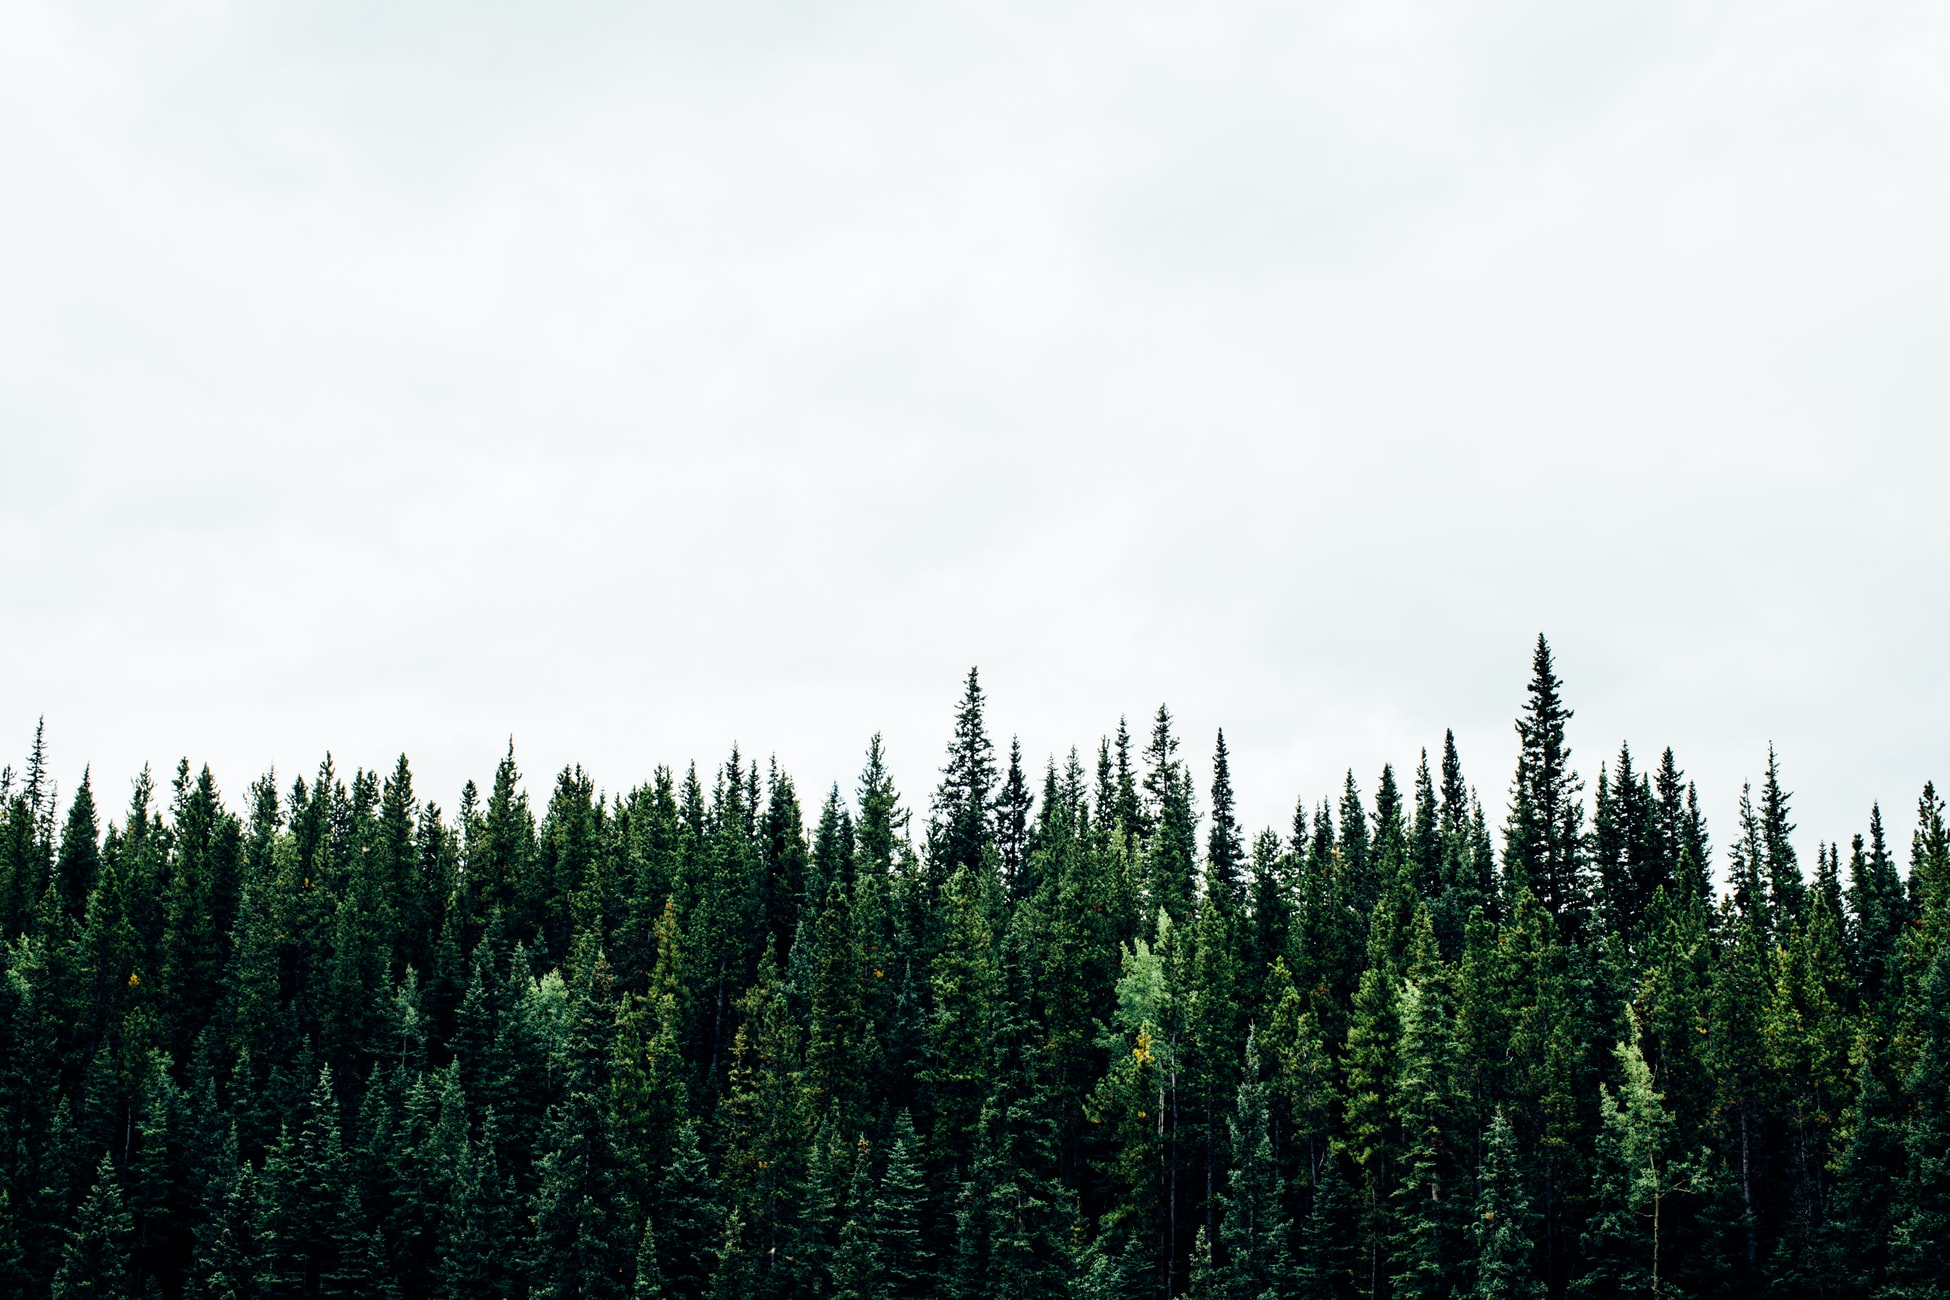
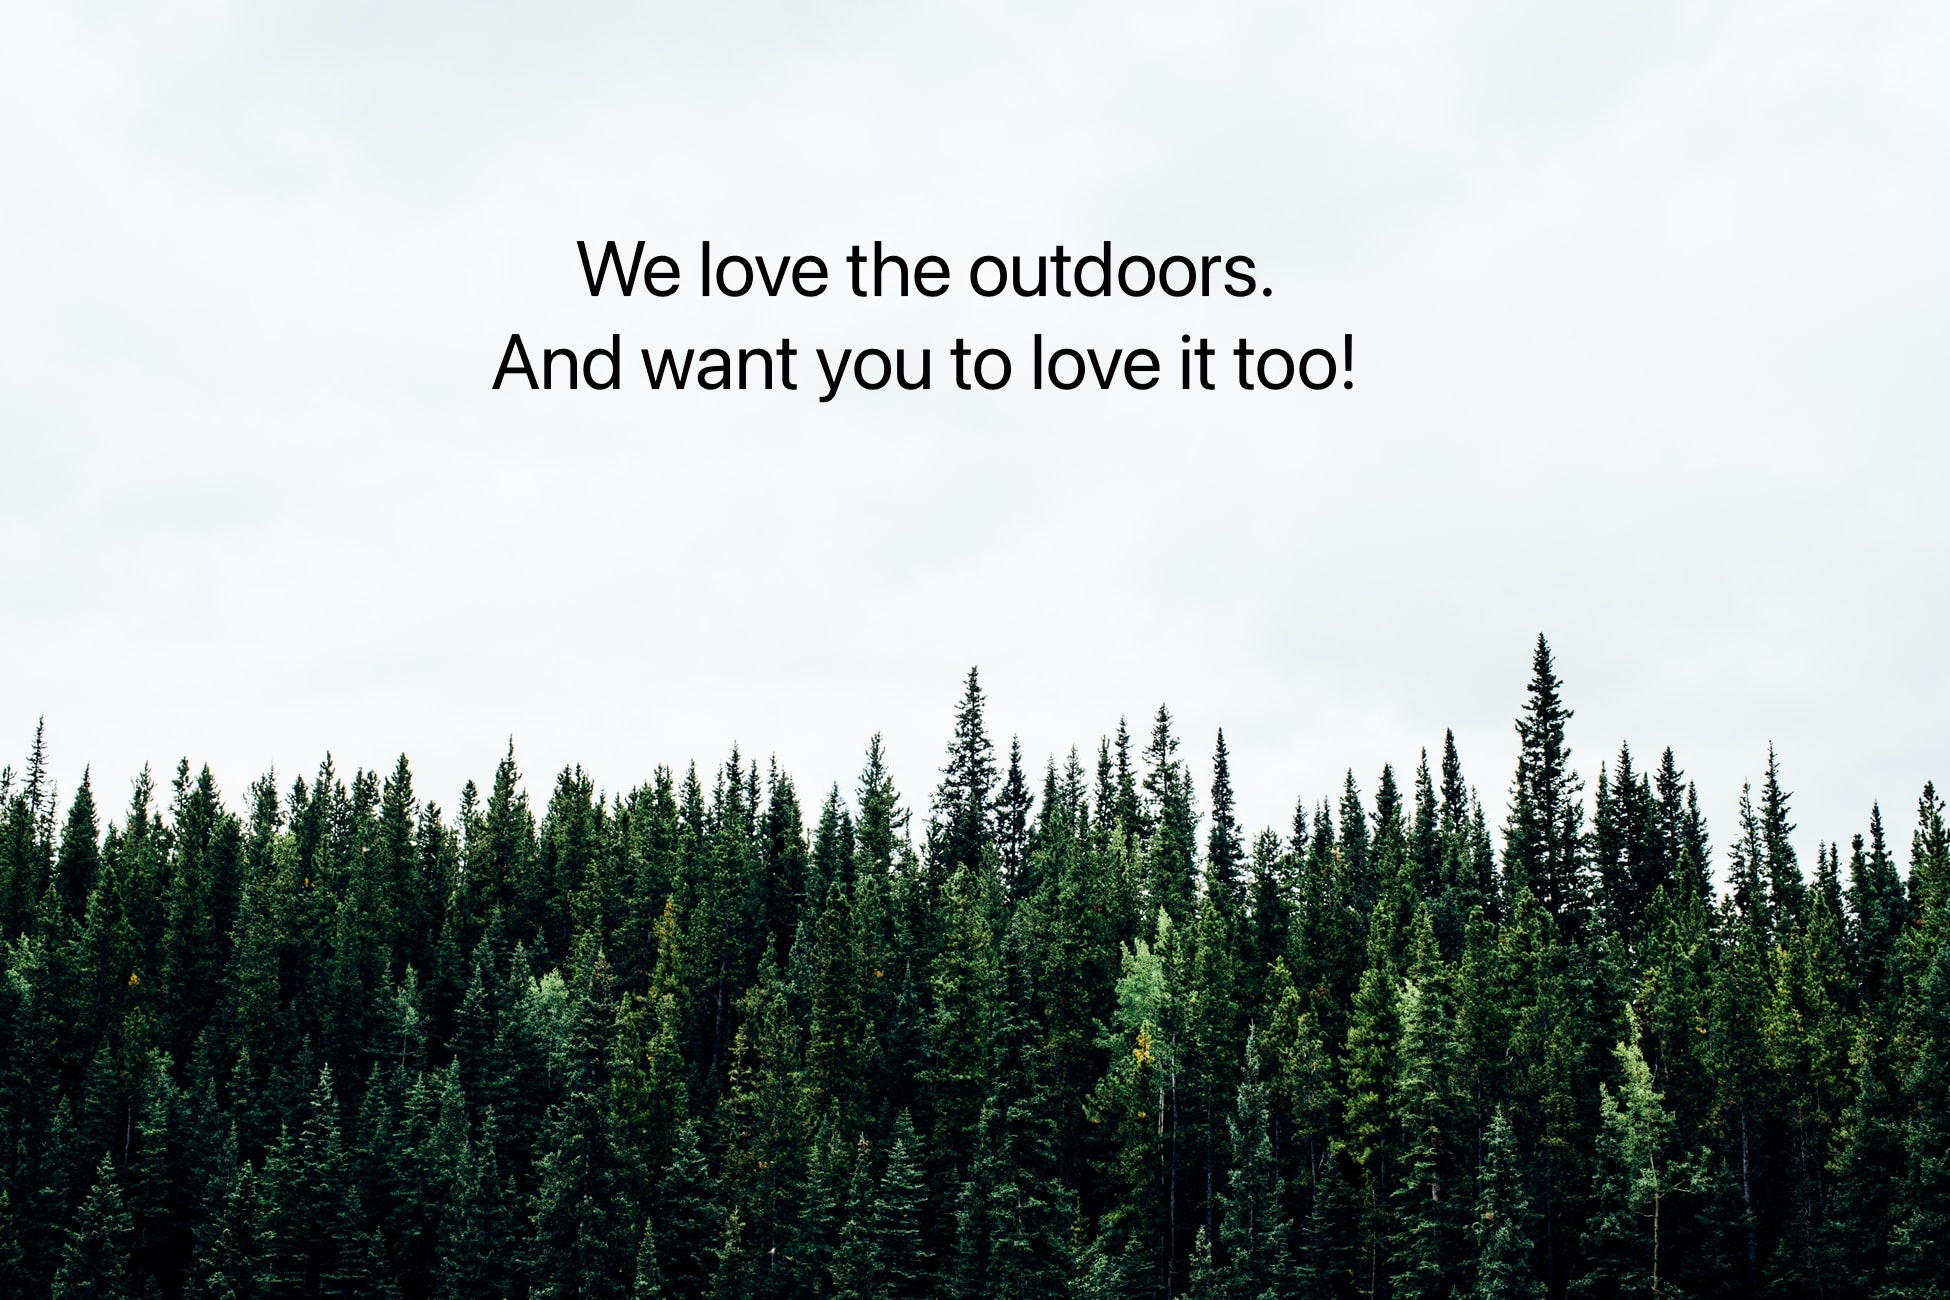
Continued dev.
News page, fixed About and Contact.

Changed region(s): [[0.2462, 0.1846, 0.7077, 0.3077]]

diff --git a/styles/newsstyle.css b/styles/newsstyle.css
@@ -1,0 +1,180 @@
+.logo {
+  height: 400px;
+  width: 100%;
+  max-width: 1480px;
+  margin-left: auto;
+  margin-right: auto;
+  display: block;
+}
+
+html,
+body {
+  height: 100%;
+  width: 100%;
+}
+
+h1,
+h2,
+nav,
+h3,
+h4,
+p,
+footer {
+  font-family: "Merriweather", serif;
+  position: center;
+  text-align: center;
+  width: 100%;
+  display: block;
+}
+
+nav li {
+  position: center;
+  display: inline-block;
+  width: 100%;
+  display: block;
+}
+
+nav ul {
+  list-style: none;
+  margin: 0px;
+  padding: 10px;
+  display: flex;
+  justify-content: space-around;
+  border: 1px solid black;
+  background-color: #d98b48;
+  font-size: 25px;
+  background-size: 1480px;
+  width: 1450px;
+  margin-bottom: 50px;
+  margin-left: 520px;
+  width: 100%;
+  margin-left: auto;
+  margin-right: auto;
+  max-width: 1458px;
+}
+
+nav a {
+  color: black;
+  text-decoration: none;
+  width: 100%;
+}
+
+footer a {
+  text-decoration: none;
+  color: black;
+  width: 100%;
+  font-size: 18px;
+}
+
+footer {
+  position: bottom, fixed;
+  bottom: 0px;
+  width: 100%;
+  background-color: #72878c;
+}
+
+.main content {
+  display: flex;
+}
+
+.some a {
+  padding: 50px 50px;
+  font-size: 30px;
+  margin-bottom: 50px;
+  margin-top: 50px;
+  text-align: center;
+}
+
+.links a {
+  margin: 45px;
+  text-align: center;
+}
+
+.links a:hover {
+  color: #d98b48;
+}
+
+form {
+  width: 100%;
+  height: 50px;
+  padding: 50px;
+  text-align: center;
+  font-size: 14px;
+}
+
+form input {
+  margin-right: -3px;
+  height: 30px;
+}
+
+button {
+  height: 35px;
+}
+
+h6 {
+  font-size: 12px;
+  text-align: right;
+}
+
+.news1 {
+  border: 1px solid black;
+  width: 100%;
+  max-width: 680px;
+  display: block;
+  background-color: #f2f2f0;
+  margin-bottom: 10px;
+  position: relative;
+  margin-left: 30px;
+  margin-right: 30px;
+  padding: 10px;
+}
+
+.news2 {
+  border: 1px solid black;
+  width: 100%;
+  max-width: 680px;
+  display: block;
+  background-color: #f2f2f0;
+  padding: 10px;
+  position: relative;
+  margin-left: 30px;
+  margin-right: 30px;
+}
+
+.row1 {
+  display: flex;
+  position: relative;
+  margin-left: 510px;
+  margin-top: 50px;
+}
+
+.readmore {
+  font-size: 18px;
+  display: block;
+}
+
+.news3 {
+  border: 1px solid black;
+  width: 100%;
+  max-width: 1024px;
+  display: block;
+  background-color: #f2f2f0;
+  padding: 10px;
+  position: relative;
+  margin-left: 30px;
+  margin-right: 30px;
+}
+
+.row2 {
+  display: flex;
+  position: relative;
+  margin-left: 510px;
+  margin-top: 50px;
+  margin-left: 690px;
+}
+
+.readmore2 {
+  font-size: 25px;
+  display: block;
+  text-align: center;
+}

diff --git a/news.html b/news.html
@@ -4,7 +4,7 @@
     <meta charset="UTF-8" />
     <meta name="viewport" content="width=device-width, initial-scale=1.0" />
     <script src="https://kit.fontawesome.com/a076d05399.js"></script>
-    <link href="styles/style.css" rel="stylesheet" />
+    <link href="styles/newsstyle.css" rel="stylesheet" />
     <link
       href="https://fonts.googleapis.com/css2?family=Merriweather:wght@300&display=swap"
       rel="stylesheet"
@@ -25,12 +25,61 @@
         <a href="cart.html">Cart</a>
       </ul>
   </nav>
-  
-  <form action="shop.html" class="searchbar">
-    <input type="search" placeholder="Search...">
-  </form>
 
     <!-- Add form for newsletter sign-up and two-three earlier stories. -->
+
+    <h1>Rainy Days' Newsletter</h1>
+
+<h3>Sign up for our newsletter today!</h3>
+
+<p></p>
+
+
+<form>
+  <input type="email" placeholder="Your Email">
+  <button class="subscribe">Subscribe Now</button>
+</form>
+
+<h2>Previous Newsletters</h2>
+
+<div class="row1">
+<div class="news1">
+  <h3>The new collection.</h3>
+  <p>Our latest collection is now live. Read more about how the design was made, and how
+    we managed to become even more eco-friendly.
+    <img src="/images/jump.jpg" alt="Jumping in joy!">
+    <a href="#" class="readmore">Read more..</a>
+    <h6><i>Posted 18 days ago..</i></h6>
+  </p>
+</div>
+
+
+
+<div class="news2">
+  <h3>Their first trip.</h3>
+  <p>The amazing story of Peter and Jamie's trip covering four thousand miles in cold, rainy forests. Accompanied with our most durable jackets, the two
+    travelled without worries.
+    <img src="images/trip2.jpg" alt="">
+    <a href="#" class="readmore">Read more..</a>
+    <h6><i>Posted 21 days ago..</i></h6>
+  </p>
+</div>
+</div>
+
+
+<div class="row2">
+<div class="news3">
+<h3>We're relocating.</h3>
+<p>After four years in New York, Rainy Days are now relocating. We're thrilled to announce our new address now in Chicago!
+</p>
+<img src="images/chicago2.jpg" alt="We're moving to Chicago!">
+<a href="#" class="readmore2">Read more..</a>
+<h6><i>Posted 37 days ago..</i></h6>
+</div>
+</div>
+
+
+
 
   </body>
 

diff --git a/styles/style.css b/styles/style.css
@@ -61,8 +61,8 @@ nav a {
 
 .searchbar {
   position: absolute;
-  left: 78%;
-  top: 42%;
+  left: 70%;
+  top: 40%;
 }
 
 footer a {
@@ -210,55 +210,60 @@ footer {
   background-color: green;
 }
 
-.forest {
+#forest {
+  width: 100%;
+  max-width: 1480px;
+  margin-left: auto;
+  margin-right: auto;
   position: relative;
   text-align: center;
-  color: white;
-}
-
-.forest2 {
-  position: absolute;
-  top: 10%;
-  left: 35%;
-  color: black;
-  font-size: 48px;
+  width: 100%;
+  display: block;
+  margin-bottom: 100px;
+  margin-top: 20px;
 }
 
 .boxed {
   border: 1px solid black;
   font-size: 18px;
-  width: 900px;
   border-radius: 5px;
   position: relative;
-  left: 820px;
-  bottom: 80px;
-  top: 5px;
+  text-align: center;
+  bottom: 50px;
+  width: 50%;
+  padding: 15px;
+  width: 100%;
+  max-width: 850px;
+  margin-left: auto;
+  margin-right: auto;
+  margin-top: 20px;
+  margin-bottom: 20px;
 }
 
 .pleft {
-  position: absolute;
+  padding: 20px;
   font-size: 18px;
-  margin-top: 50px;
-  text-align: left;
-  left: 520px;
+  margin-top: 110px;
   border: 2px solid black;
   border-radius: 5px;
   width: 700px;
+  margin-bottom: 20px;
+  position: relative;
+  left: 520px;
 }
 
 #map {
-  float: center;
-  position: absolute;
-  left: 520px;
-  bottom: -150px;
+  max-width: 100%;
+  position: relative;
+  right: -520px;
+  margin-top: 10px;
 }
 
 #building {
+  max-width: 100%;
+  max-block-size: 60%;
   position: relative;
-  right: -1290px;
-  bottom: -100px;
-  height: 700px;
-  top: 10px;
+  left: 740px;
 }
 
 .some2 {

diff --git a/about.html b/about.html
@@ -30,17 +30,14 @@
       <input type="search" placeholder="Search...">
     </form>
     <h1>About Rainy Days</h1>
-    <div class ="forest">
-      <img src="/images/forest.jpg" alt="Forest with inspiration text!" width="1480px">
-    <div class="forest2"><h2>We love the outdoors.</h2>
-    <h4>And want you to love it too!</h4></div>
-    </div>
-    
+      <img src="/images/forest.jpg" alt="Forest with inspiration text!" width="1480px" class id="forest">
+  
+      <div class="boxed">
     <p>It's easy.</p>
     <p>The adventure gets much more comfortable with the right equipment.</p>
 
     <h4>Our goal has always been to deliver high quality at the correct price point.</h4>
-    <div class="boxed"><p>
+ <p>
       At vero eos et accusamus et iusto odio dignissimos ducimus qui blanditiis praesentium voluptatum deleniti atque corrupti quos dolores et quas molestias excepturi sint occaecati cupiditate non provident, similique sunt in culpa qui officia deserunt mollitia animi, id est laborum et dolorum fuga.
       Et harum quidem rerum facilis est et expedita distinctio. Nam libero tempore, cum soluta nobis est eligendi optio cumque nihil impedit quo minus id quod maxime placeat facere possimus, omnis voluptas assumenda est, omnis dolor repellendus.</p>
       <p>Temporibus autem quibusdam et aut officiis debitis aut rerum necessitatibus saepe eveniet ut et voluptates repudiandae sint et molestiae non recusandae. 

diff --git a/contact.html b/contact.html
@@ -36,14 +36,14 @@
   <p>Sed ut perspiciatis unde omnis iste natus error sit voluptatem accusantium doloremque laudantium, totam rem aperiam, eaque ipsa quae ab illo inventore veritatis et quasi architecto beatae vitae dicta sunt explicabo.</p>
     <p>Nemo enim ipsam voluptatem quia voluptas sit aspernatur aut odit aut fugit, sed quia consequuntur magni dolores eos qui ratione voluptatem sequi nesciunt. Neque porro quisquam est, qui dolorem ipsum quia dolor sit amet, consectetur,
     adipisci velit, sed quia non numquam eius modi tempora incidunt ut labore et dolore magnam aliquam quaerat voluptatem.</p>
-    <div class="some2">
+  <div class="some2">
       <a href="www.facebook.com"><span class="fab fa-facebook-f"></span></a>
       <a href="www.twitter.com"><span class="fab fa-twitter"></span></a>
       <a href="www.instagram.com"><span class="fab fa-instagram"></span></a>
     </div>
   </div>
 
-  <img src="images/location.png" alt="Map over the city." height="450px" div id="map">
+  <img src="images/location.png" alt="Map over the city." div id="map">
   <img src="images/contact.jpg" alt="Our building from the street." div id="building">
 
 
